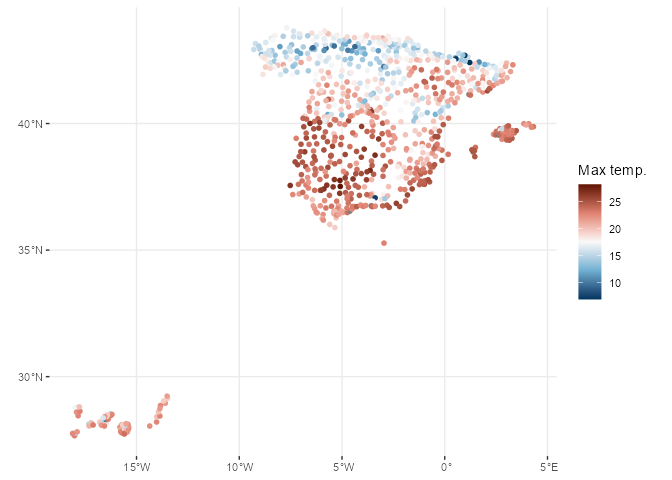
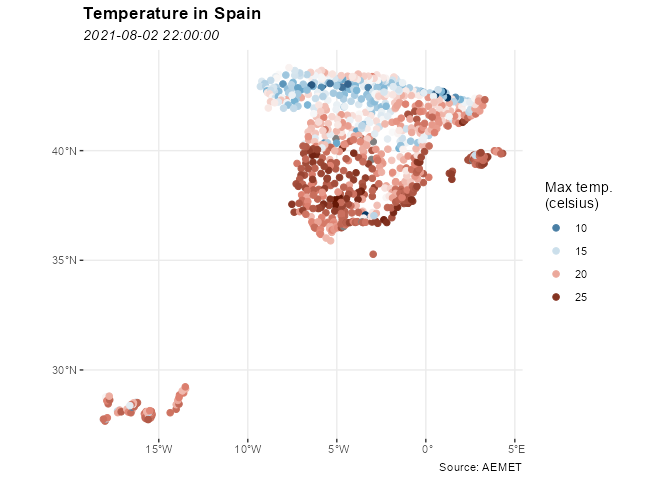
Update sÃpatial charts

diff --git a/README.md b/README.md
@@ -99,7 +99,7 @@ browseURL("https://opendata.aemet.es/centrodedescargas/obtencionAPIKey")
 aemet_api_key("<MY API KEY>")
 ```
 
-### Changes on v1.0.0\!
+### Changes on v1.0.0!
 
 Now the `apikey` parameter on the functions have been deprecated. You
 may need to set your API Key globally using `aemet_api_key()`. Note that
@@ -115,7 +115,6 @@ an hour, numbers are parsed as double, etc.).
 You may see the following message on load:
 
 ``` r
-
 library(climaemet)
 #> 
 #> Welcome to climaemet (1.0.0)
@@ -132,20 +131,20 @@ See how a tibble is displayed:
 # See a tibble in action
 
 aemet_last_obs("9434")
-#> # A tibble: 24 x 25
+#> # A tibble: 23 x 25
 #>    idema   lon fint                 prec   alt  vmax    vv    dv   lat  dmax
 #>    <chr> <dbl> <dttm>              <dbl> <dbl> <dbl> <dbl> <dbl> <dbl> <dbl>
-#>  1 9434  -1.00 2021-08-02 21:00:00     0   249   8.6   1.2   199  41.7   208
-#>  2 9434  -1.00 2021-08-02 22:00:00     0   249   5     1.7   351  41.7   323
-#>  3 9434  -1.00 2021-08-02 23:00:00     0   249   7.2   5     321  41.7   340
-#>  4 9434  -1.00 2021-08-03 00:00:00     0   249   6.6   4.5   302  41.7   305
-#>  5 9434  -1.00 2021-08-03 01:00:00     0   249   8.6   5.6   294  41.7   298
-#>  6 9434  -1.00 2021-08-03 02:00:00     0   249   8.6   5.2   310  41.7   298
-#>  7 9434  -1.00 2021-08-03 03:00:00     0   249   6.9   5.3   296  41.7   298
-#>  8 9434  -1.00 2021-08-03 04:00:00     0   249   6.4   4     291  41.7   293
-#>  9 9434  -1.00 2021-08-03 05:00:00     0   249   5.2   3.5   282  41.7   285
-#> 10 9434  -1.00 2021-08-03 06:00:00     0   249   5.4   3.2   285  41.7   283
-#> # ... with 14 more rows, and 15 more variables: ubi <chr>, pres <dbl>,
+#>  1 9434  -1.00 2021-08-02 22:00:00     0   249   5     1.7   351  41.7   323
+#>  2 9434  -1.00 2021-08-02 23:00:00     0   249   7.2   5     321  41.7   340
+#>  3 9434  -1.00 2021-08-03 00:00:00     0   249   6.6   4.5   302  41.7   305
+#>  4 9434  -1.00 2021-08-03 01:00:00     0   249   8.6   5.6   294  41.7   298
+#>  5 9434  -1.00 2021-08-03 02:00:00     0   249   8.6   5.2   310  41.7   298
+#>  6 9434  -1.00 2021-08-03 03:00:00     0   249   6.9   5.3   296  41.7   298
+#>  7 9434  -1.00 2021-08-03 04:00:00     0   249   6.4   4     291  41.7   293
+#>  8 9434  -1.00 2021-08-03 05:00:00     0   249   5.2   3.5   282  41.7   285
+#>  9 9434  -1.00 2021-08-03 06:00:00     0   249   5.4   3.2   285  41.7   283
+#> 10 9434  -1.00 2021-08-03 07:00:00     0   249   5.2   3.3   311  41.7   310
+#> # ... with 13 more rows, and 15 more variables: ubi <chr>, pres <dbl>,
 #> #   hr <dbl>, stdvv <dbl>, ts <dbl>, pres_nmar <dbl>, tamin <dbl>, ta <dbl>,
 #> #   tamax <dbl>, tpr <dbl>, stddv <dbl>, inso <dbl>, tss5cm <dbl>,
 #> #   pacutp <dbl>, tss20cm <dbl>
@@ -157,7 +156,6 @@ The package provides several functions to access the data of the API.
 Here you can find some examples:
 
 ``` r
-
 ## Get AEMET stations
 stations <- aemet_stations() # Need to have the API Key registered
 
@@ -165,7 +163,7 @@ knitr::kable(head(stations))
 ```
 
 | indicativo | indsinop | nombre               | provincia | altitud | longitud |  latitud |
-| :--------- | :------- | :------------------- | :-------- | ------: | -------: | -------: |
+|:-----------|:---------|:---------------------|:----------|--------:|---------:|---------:|
 | 0252D      | 08186    | ARENYS DE MAR        | BARCELONA |      74 | 2.540000 | 41.58750 |
 | 0076       | 08181    | BARCELONA AEROPUERTO | BARCELONA |       4 | 2.070000 | 41.29278 |
 | 0200E      |          | BARCELONA, FABRA     | BARCELONA |     408 | 2.124167 | 41.41833 |
@@ -174,7 +172,6 @@ knitr::kable(head(stations))
 | 0229I      | 08192    | SABADELL AEROPUERTO  | BARCELONA |     146 | 2.103056 | 41.52361 |
 
 ``` r
-
 station <- "9434" # Zaragoza Aeropuerto
 
 ## Get last observation values for a station
@@ -183,17 +180,16 @@ data_observation <- aemet_last_obs(station)
 knitr::kable(head(data_observation))
 ```
 
-| idema |        lon | fint                | prec | alt | vmax |  vv |  dv |      lat | dmax | ubi                 |  pres | hr | stdvv |   ts | pres\_nmar | tamin |   ta | tamax |  tpr | stddv | inso | tss5cm | pacutp | tss20cm |
-| :---- | ---------: | :------------------ | ---: | --: | ---: | --: | --: | -------: | ---: | :------------------ | ----: | -: | ----: | ---: | ---------: | ----: | ---: | ----: | ---: | ----: | ---: | -----: | -----: | ------: |
-| 9434  | \-1.004167 | 2021-08-02 21:00:00 |    0 | 249 |  8.6 | 1.2 | 199 | 41.66056 |  208 | ZARAGOZA AEROPUERTO | 986.2 | 48 |   0.4 | 23.2 |     1014.9 |  24.4 | 24.4 |  26.3 | 12.6 |    34 |    0 |   31.7 |      0 |    31.7 |
-| 9434  | \-1.004167 | 2021-08-02 22:00:00 |    0 | 249 |  5.0 | 1.7 | 351 | 41.66056 |  323 | ZARAGOZA AEROPUERTO | 986.9 | 52 |   1.0 | 22.2 |     1015.7 |  23.4 | 23.6 |  24.4 | 13.2 |    45 |    0 |   30.8 |      0 |    31.6 |
-| 9434  | \-1.004167 | 2021-08-02 23:00:00 |    0 | 249 |  7.2 | 5.0 | 321 | 41.66056 |  340 | ZARAGOZA AEROPUERTO | 987.1 | 59 |   0.8 | 22.0 |     1016.0 |  21.9 | 21.9 |  23.6 | 13.6 |     9 |    0 |   30.0 |      0 |    31.4 |
-| 9434  | \-1.004167 | 2021-08-03 00:00:00 |    0 | 249 |  6.6 | 4.5 | 302 | 41.66056 |  305 | ZARAGOZA AEROPUERTO | 987.3 | 62 |   0.7 | 21.1 |     1016.4 |  20.7 | 20.8 |  21.9 | 13.3 |    13 |    0 |   29.3 |      0 |    31.2 |
-| 9434  | \-1.004167 | 2021-08-03 01:00:00 |    0 | 249 |  8.6 | 5.6 | 294 | 41.66056 |  298 | ZARAGOZA AEROPUERTO | 987.1 | 63 |   0.7 | 20.4 |     1016.3 |  20.0 | 20.0 |  20.9 | 12.7 |     6 |    0 |   28.6 |      0 |    30.9 |
-| 9434  | \-1.004167 | 2021-08-03 02:00:00 |    0 | 249 |  8.6 | 5.2 | 310 | 41.66056 |  298 | ZARAGOZA AEROPUERTO | 987.1 | 67 |   0.8 | 19.5 |     1016.3 |  19.1 | 19.1 |  20.1 | 12.8 |     8 |    0 |   28.1 |      0 |    30.7 |
+| idema |       lon | fint                | prec | alt | vmax |  vv |  dv |      lat | dmax | ubi                 |  pres |  hr | stdvv |   ts | pres\_nmar | tamin |   ta | tamax |  tpr | stddv | inso | tss5cm | pacutp | tss20cm |
+|:------|----------:|:--------------------|-----:|----:|-----:|----:|----:|---------:|-----:|:--------------------|------:|----:|------:|-----:|-----------:|------:|-----:|------:|-----:|------:|-----:|-------:|-------:|--------:|
+| 9434  | -1.004167 | 2021-08-02 22:00:00 |    0 | 249 |  5.0 | 1.7 | 351 | 41.66056 |  323 | ZARAGOZA AEROPUERTO | 986.9 |  52 |   1.0 | 22.2 |     1015.7 |  23.4 | 23.6 |  24.4 | 13.2 |    45 |    0 |   30.8 |      0 |    31.6 |
+| 9434  | -1.004167 | 2021-08-02 23:00:00 |    0 | 249 |  7.2 | 5.0 | 321 | 41.66056 |  340 | ZARAGOZA AEROPUERTO | 987.1 |  59 |   0.8 | 22.0 |     1016.0 |  21.9 | 21.9 |  23.6 | 13.6 |     9 |    0 |   30.0 |      0 |    31.4 |
+| 9434  | -1.004167 | 2021-08-03 00:00:00 |    0 | 249 |  6.6 | 4.5 | 302 | 41.66056 |  305 | ZARAGOZA AEROPUERTO | 987.3 |  62 |   0.7 | 21.1 |     1016.4 |  20.7 | 20.8 |  21.9 | 13.3 |    13 |    0 |   29.3 |      0 |    31.2 |
+| 9434  | -1.004167 | 2021-08-03 01:00:00 |    0 | 249 |  8.6 | 5.6 | 294 | 41.66056 |  298 | ZARAGOZA AEROPUERTO | 987.1 |  63 |   0.7 | 20.4 |     1016.3 |  20.0 | 20.0 |  20.9 | 12.7 |     6 |    0 |   28.6 |      0 |    30.9 |
+| 9434  | -1.004167 | 2021-08-03 02:00:00 |    0 | 249 |  8.6 | 5.2 | 310 | 41.66056 |  298 | ZARAGOZA AEROPUERTO | 987.1 |  67 |   0.8 | 19.5 |     1016.3 |  19.1 | 19.1 |  20.1 | 12.8 |     8 |    0 |   28.1 |      0 |    30.7 |
+| 9434  | -1.004167 | 2021-08-03 03:00:00 |    0 | 249 |  6.9 | 5.3 | 296 | 41.66056 |  298 | ZARAGOZA AEROPUERTO | 987.3 |  67 |   0.5 | 19.2 |     1016.6 |  18.8 | 18.8 |  19.2 | 12.5 |     5 |    0 |   27.5 |      0 |    30.4 |
 
 ``` r
-
 ## Get daily/annual climatology values for a station
 data_daily <-
   aemet_daily_clim(station, start = "2020-01-01", end = "2020-12-31")
@@ -201,34 +197,32 @@ data_daily <-
 knitr::kable(head(data_daily))
 ```
 
-| fecha      | indicativo | nombre               | provincia | altitud | tmed | prec |  tmin | horatmin | tmax | horatmax | dir | velmedia | racha | horaracha | sol | presMax | horaPresMax | presMin | horaPresMin |
-| :--------- | :--------- | :------------------- | :-------- | ------: | ---: | :--- | ----: | :------- | ---: | :------- | :-- | -------: | ----: | :-------- | --: | ------: | :---------- | ------: | :---------- |
-| 2020-01-01 | 9434       | ZARAGOZA, AEROPUERTO | ZARAGOZA  |     249 |  1.0 | 0,0  |   0.3 | 06:10    |  1.8 | 14:50    | 28  |      1.7 |   5.6 | 04:40     | 0.0 |  1004.6 | 10          |  1001.9 | 15          |
-| 2020-01-02 | 9434       | ZARAGOZA, AEROPUERTO | ZARAGOZA  |     249 |  0.6 | 0,0  | \-0.3 | 08:10    |  1.6 | 18:40    | 29  |      1.1 |   3.6 | 00:40     | 0.0 |  1003.4 | 10          |  1000.7 | 16          |
-| 2020-01-03 | 9434       | ZARAGOZA, AEROPUERTO | ZARAGOZA  |     249 |  4.2 | 0,0  | \-0.1 | 07:10    |  8.5 | 19:10    | 30  |      4.4 |   8.3 | 21:40     | 2.4 |  1003.6 | 10          |  1000.7 | Varias      |
-| 2020-01-04 | 9434       | ZARAGOZA, AEROPUERTO | ZARAGOZA  |     249 |  8.6 | 0,0  |   3.6 | 06:40    | 13.6 | 14:50    | 33  |      5.0 |  12.5 | 12:30     | 8.2 |  1003.9 | 10          |  1001.2 | 15          |
-| 2020-01-05 | 9434       | ZARAGOZA, AEROPUERTO | ZARAGOZA  |     249 |  8.2 | 0,0  |   3.0 | 23:00    | 13.3 | 15:20    | 30  |      3.6 |  10.3 | 05:30     | 8.9 |  1001.9 | 00          |   996.9 | Varias      |
-| 2020-01-06 | 9434       | ZARAGOZA, AEROPUERTO | ZARAGOZA  |     249 |  2.3 | 0,0  |   1.4 | 23:59    |  3.2 | 00:00    | 29  |      3.1 |   7.2 | 20:20     | 0.0 |  1001.7 | 22          |   998.6 | 04          |
+| fecha      | indicativo | nombre               | provincia | altitud | tmed | prec | tmin | horatmin | tmax | horatmax | dir | velmedia | racha | horaracha | sol | presMax | horaPresMax | presMin | horaPresMin |
+|:-----------|:-----------|:---------------------|:----------|--------:|-----:|:-----|-----:|:---------|-----:|:---------|:----|---------:|------:|:----------|----:|--------:|:------------|--------:|:------------|
+| 2020-01-01 | 9434       | ZARAGOZA, AEROPUERTO | ZARAGOZA  |     249 |  1.0 | 0,0  |  0.3 | 06:10    |  1.8 | 14:50    | 28  |      1.7 |   5.6 | 04:40     | 0.0 |  1004.6 | 10          |  1001.9 | 15          |
+| 2020-01-02 | 9434       | ZARAGOZA, AEROPUERTO | ZARAGOZA  |     249 |  0.6 | 0,0  | -0.3 | 08:10    |  1.6 | 18:40    | 29  |      1.1 |   3.6 | 00:40     | 0.0 |  1003.4 | 10          |  1000.7 | 16          |
+| 2020-01-03 | 9434       | ZARAGOZA, AEROPUERTO | ZARAGOZA  |     249 |  4.2 | 0,0  | -0.1 | 07:10    |  8.5 | 19:10    | 30  |      4.4 |   8.3 | 21:40     | 2.4 |  1003.6 | 10          |  1000.7 | Varias      |
+| 2020-01-04 | 9434       | ZARAGOZA, AEROPUERTO | ZARAGOZA  |     249 |  8.6 | 0,0  |  3.6 | 06:40    | 13.6 | 14:50    | 33  |      5.0 |  12.5 | 12:30     | 8.2 |  1003.9 | 10          |  1001.2 | 15          |
+| 2020-01-05 | 9434       | ZARAGOZA, AEROPUERTO | ZARAGOZA  |     249 |  8.2 | 0,0  |  3.0 | 23:00    | 13.3 | 15:20    | 30  |      3.6 |  10.3 | 05:30     | 8.9 |  1001.9 | 00          |   996.9 | Varias      |
+| 2020-01-06 | 9434       | ZARAGOZA, AEROPUERTO | ZARAGOZA  |     249 |  2.3 | 0,0  |  1.4 | 23:59    |  3.2 | 00:00    | 29  |      3.1 |   7.2 | 20:20     | 0.0 |  1001.7 | 22          |   998.6 | 04          |
 
 ``` r
-
 
 ## Get monthly/annual climatology values for a station
 data_monthly <- aemet_monthly_clim(station, year = 2000)
 knitr::kable(head(data_monthly))
 ```
 
-| fecha  | indicativo | p\_max   | n\_cub | hr | n\_gra | n\_fog | inso | q\_max     | nw\_55 | q\_mar | q\_med | tm\_min | ta\_max  | ts\_min | nt\_30 | nv\_0050 | n\_des | w\_racha    | np\_100 | n\_nub | p\_sol | nw\_91 | ts\_20 | np\_001 | ta\_min   |   e | np\_300 | nv\_1000 | evap | p\_mes | n\_llu | n\_tor | ts\_10 | w\_med | nt\_00 | ti\_max | n\_nie | tm\_mes | tm\_max | nv\_0100 | ts\_50 | q\_min    | np\_010 |
-| :----- | :--------- | :------- | -----: | -: | -----: | -----: | ---: | :--------- | -----: | -----: | -----: | ------: | :------- | ------: | -----: | -------: | -----: | :---------- | ------: | -----: | -----: | -----: | -----: | ------: | :-------- | --: | ------: | -------: | ---: | -----: | -----: | -----: | -----: | -----: | -----: | ------: | -----: | ------: | ------: | -------: | -----: | :-------- | ------: |
-| 2000-1 | 9434       | 8.0(15)  |      8 | 77 |      0 |      6 |  5.4 | 1003.5(11) |      5 | 1026.0 |  994.1 |   \-0.1 | 16.3(31) |     6.2 |      0 |        0 |     12 | 32/22.2(22) |       0 |     11 |     56 |      0 |    4.9 |       3 | \-5.8(12) |  65 |       0 |        5 |  861 |   14.9 |      3 |      0 |    5.0 |     15 |     16 |     1.0 |      0 |     4.3 |     8.7 |        0 |    5.6 | 979.7(14) |       2 |
-| 2000-2 | 9434       | 0.0(–)   |      0 | 60 |      0 |      0 |  7.7 | 1004.9(04) |      9 | 1027.1 |  996.0 |     4.8 | 20.8(27) |    10.7 |      0 |        0 |      8 | 33/21.4(17) |       0 |     21 |     72 |      0 |   11.8 |       0 | \-1.5(06) |  79 |       0 |        0 | 1638 |    0.0 |      0 |      0 |   12.7 |     16 |      4 |    13.4 |      0 |    10.8 |    16.9 |        0 |   10.6 | 988.6(17) |       0 |
-| 2000-3 | 9434       | 5.4(22)  |      4 | 58 |      0 |      0 |  7.8 | 1001.0(09) |      8 | 1020.3 |  989.5 |     6.0 | 24.0(11) |    11.0 |      0 |        0 |      8 | 32/20.0(15) |       0 |     19 |     65 |      0 |   14.9 |       7 | \-0.8(03) |  83 |       0 |        0 | 2062 |   11.1 |      7 |      0 |   15.7 |     18 |      1 |    12.1 |      0 |    12.0 |    17.9 |        0 |   13.6 | 976.5(28) |       4 |
-| 2000-4 | 9434       | 22.2(26) |      8 | 61 |      0 |      0 |  6.2 | 991.5(07)  |      7 | 1008.0 |  977.8 |     8.4 | 27.2(25) |    14.9 |      0 |        0 |      1 | 10/20.0(02) |       1 |     21 |     46 |      0 |   16.7 |      10 | 1.7(06)   |  99 |       0 |        0 | 1730 |   49.1 |     14 |      1 |   17.5 |     17 |      0 |    11.7 |      0 |    13.7 |    18.9 |        0 |   15.2 | 959.5(02) |       6 |
-| 2000-5 | 9434       | 23.4(05) |      6 | 61 |      2 |      2 |  8.7 | 991.4(30)  |     NA | 1014.4 |  984.7 |    13.2 | 33.0(30) |    18.8 |      5 |        0 |      1 | NA          |       3 |     24 |     59 |     NA |   23.5 |      13 | 9.2(01)   | 143 |       0 |        1 | 2116 |   67.5 |     11 |      8 |   24.8 |     13 |      0 |    21.5 |      0 |    19.5 |    25.7 |        0 |   20.8 | 977.5(06) |       8 |
-| 2000-6 | 9434       | 12.2(09) |      2 | 57 |      0 |      0 | 11.3 | 995.0(14)  |     NA | 1017.1 |  987.6 |    16.0 | 37.5(27) |    20.3 |     19 |        0 |     18 | NA          |       1 |     10 |     75 |     NA |   27.7 |       6 | 11.0(08)  | 164 |       0 |        0 | 2955 |   34.9 |      8 |      4 |   29.2 |     21 |      0 |    16.5 |      0 |    23.0 |    29.8 |        0 |   26.1 | 977.9(09) |       5 |
+| fecha  | indicativo | p\_max   | n\_cub |  hr | n\_gra | n\_fog | inso | q\_max     | nw\_55 | q\_mar | q\_med | tm\_min | ta\_max  | ts\_min | nt\_30 | nv\_0050 | n\_des | w\_racha    | np\_100 | n\_nub | p\_sol | nw\_91 | ts\_20 | np\_001 | ta\_min  |   e | np\_300 | nv\_1000 | evap | p\_mes | n\_llu | n\_tor | ts\_10 | w\_med | nt\_00 | ti\_max | n\_nie | tm\_mes | tm\_max | nv\_0100 | ts\_50 | q\_min    | np\_010 |
+|:-------|:-----------|:---------|-------:|----:|-------:|-------:|-----:|:-----------|-------:|-------:|-------:|--------:|:---------|--------:|-------:|---------:|-------:|:------------|--------:|-------:|-------:|-------:|-------:|--------:|:---------|----:|--------:|---------:|-----:|-------:|-------:|-------:|-------:|-------:|-------:|--------:|-------:|--------:|--------:|---------:|-------:|:----------|--------:|
+| 2000-1 | 9434       | 8.0(15)  |      8 |  77 |      0 |      6 |  5.4 | 1003.5(11) |      5 | 1026.0 |  994.1 |    -0.1 | 16.3(31) |     6.2 |      0 |        0 |     12 | 32/22.2(22) |       0 |     11 |     56 |      0 |    4.9 |       3 | -5.8(12) |  65 |       0 |        5 |  861 |   14.9 |      3 |      0 |    5.0 |     15 |     16 |     1.0 |      0 |     4.3 |     8.7 |        0 |    5.6 | 979.7(14) |       2 |
+| 2000-2 | 9434       | 0.0(–)   |      0 |  60 |      0 |      0 |  7.7 | 1004.9(04) |      9 | 1027.1 |  996.0 |     4.8 | 20.8(27) |    10.7 |      0 |        0 |      8 | 33/21.4(17) |       0 |     21 |     72 |      0 |   11.8 |       0 | -1.5(06) |  79 |       0 |        0 | 1638 |    0.0 |      0 |      0 |   12.7 |     16 |      4 |    13.4 |      0 |    10.8 |    16.9 |        0 |   10.6 | 988.6(17) |       0 |
+| 2000-3 | 9434       | 5.4(22)  |      4 |  58 |      0 |      0 |  7.8 | 1001.0(09) |      8 | 1020.3 |  989.5 |     6.0 | 24.0(11) |    11.0 |      0 |        0 |      8 | 32/20.0(15) |       0 |     19 |     65 |      0 |   14.9 |       7 | -0.8(03) |  83 |       0 |        0 | 2062 |   11.1 |      7 |      0 |   15.7 |     18 |      1 |    12.1 |      0 |    12.0 |    17.9 |        0 |   13.6 | 976.5(28) |       4 |
+| 2000-4 | 9434       | 22.2(26) |      8 |  61 |      0 |      0 |  6.2 | 991.5(07)  |      7 | 1008.0 |  977.8 |     8.4 | 27.2(25) |    14.9 |      0 |        0 |      1 | 10/20.0(02) |       1 |     21 |     46 |      0 |   16.7 |      10 | 1.7(06)  |  99 |       0 |        0 | 1730 |   49.1 |     14 |      1 |   17.5 |     17 |      0 |    11.7 |      0 |    13.7 |    18.9 |        0 |   15.2 | 959.5(02) |       6 |
+| 2000-5 | 9434       | 23.4(05) |      6 |  61 |      2 |      2 |  8.7 | 991.4(30)  |     NA | 1014.4 |  984.7 |    13.2 | 33.0(30) |    18.8 |      5 |        0 |      1 | NA          |       3 |     24 |     59 |     NA |   23.5 |      13 | 9.2(01)  | 143 |       0 |        1 | 2116 |   67.5 |     11 |      8 |   24.8 |     13 |      0 |    21.5 |      0 |    19.5 |    25.7 |        0 |   20.8 | 977.5(06) |       8 |
+| 2000-6 | 9434       | 12.2(09) |      2 |  57 |      0 |      0 | 11.3 | 995.0(14)  |     NA | 1017.1 |  987.6 |    16.0 | 37.5(27) |    20.3 |     19 |        0 |     18 | NA          |       1 |     10 |     75 |     NA |   27.7 |       6 | 11.0(08) | 164 |       0 |        0 | 2955 |   34.9 |      8 |      4 |   29.2 |     21 |      0 |    16.5 |      0 |    23.0 |    29.8 |        0 |   26.1 | 977.9(09) |       5 |
 
 ``` r
-
 
 ## Get recorded extreme values of temperature for a station
 data_extremes <- aemet_extremes_clim(station, parameter = "T")
@@ -236,11 +230,11 @@ knitr::kable(head(data_extremes))
 ```
 
 | indicativo | nombre               | ubicacion | codigo | temMin | diaMin | anioMin | mesMin | temMax | diaMax | anioMax | mesMax | temMedBaja | anioMedBaja | mesMedBaja | temMedAlta | anioMedAlta | mesMedAlta | temMedMin | anioMedMin | mesMedMin | temMedMax | anioMedMax | mesMedMax |
-| :--------- | :------------------- | :-------- | :----- | -----: | -----: | ------: | -----: | -----: | -----: | ------: | -----: | ---------: | ----------: | ---------: | ---------: | ----------: | ---------: | --------: | ---------: | --------: | --------: | ---------: | --------: |
-| 9434       | ZARAGOZA, AEROPUERTO | ZARAGOZA  | 023000 |  \-104 |      4 |    1971 |      2 |    206 |      8 |    2016 |      7 |         29 |        1953 |          2 |         97 |        2016 |          7 |      \-12 |       1957 |         2 |       135 |       2016 |         7 |
-| 9434       | ZARAGOZA, AEROPUERTO | ZARAGOZA  | 023000 |  \-114 |      5 |    1963 |      2 |    255 |     27 |    2019 |      7 |         15 |        1956 |          2 |        121 |        1990 |          7 |      \-30 |       1956 |         2 |       180 |       1990 |         7 |
-| 9434       | ZARAGOZA, AEROPUERTO | ZARAGOZA  | 023000 |   \-63 |      9 |    1964 |      2 |    283 |     19 |    1957 |      7 |         71 |        1971 |          2 |        146 |        2001 |          7 |        19 |       1973 |         2 |       207 |       1997 |         7 |
-| 9434       | ZARAGOZA, AEROPUERTO | ZARAGOZA  | 023000 |   \-24 |      3 |    1967 |      2 |    324 |      9 |    2011 |      7 |        104 |        1986 |          2 |        174 |        2014 |          7 |        54 |       1970 |         2 |       237 |       2014 |         7 |
+|:-----------|:---------------------|:----------|:-------|-------:|-------:|--------:|-------:|-------:|-------:|--------:|-------:|-----------:|------------:|-----------:|-----------:|------------:|-----------:|----------:|-----------:|----------:|----------:|-----------:|----------:|
+| 9434       | ZARAGOZA, AEROPUERTO | ZARAGOZA  | 023000 |   -104 |      4 |    1971 |      2 |    206 |      8 |    2016 |      7 |         29 |        1953 |          2 |         97 |        2016 |          7 |       -12 |       1957 |         2 |       135 |       2016 |         7 |
+| 9434       | ZARAGOZA, AEROPUERTO | ZARAGOZA  | 023000 |   -114 |      5 |    1963 |      2 |    255 |     27 |    2019 |      7 |         15 |        1956 |          2 |        121 |        1990 |          7 |       -30 |       1956 |         2 |       180 |       1990 |         7 |
+| 9434       | ZARAGOZA, AEROPUERTO | ZARAGOZA  | 023000 |    -63 |      9 |    1964 |      2 |    283 |     19 |    1957 |      7 |         71 |        1971 |          2 |        146 |        2001 |          7 |        19 |       1973 |         2 |       207 |       1997 |         7 |
+| 9434       | ZARAGOZA, AEROPUERTO | ZARAGOZA  | 023000 |    -24 |      3 |    1967 |      2 |    324 |      9 |    2011 |      7 |        104 |        1986 |          2 |        174 |        2014 |          7 |        54 |       1970 |         2 |       237 |       2014 |         7 |
 | 9434       | ZARAGOZA, AEROPUERTO | ZARAGOZA  | 023000 |      5 |      4 |    1967 |      2 |    365 |     29 |    2001 |      7 |        132 |        1984 |          2 |        208 |        2017 |          7 |        85 |       1984 |         2 |       278 |       2017 |         7 |
 | 9434       | ZARAGOZA, AEROPUERTO | ZARAGOZA  | 023000 |     52 |     11 |    1971 |      2 |    432 |     29 |    2019 |      7 |        182 |        1953 |          2 |        266 |        2003 |          7 |       126 |       1969 |         2 |       338 |       2003 |         7 |
 
@@ -248,7 +242,6 @@ We can also draw a “warming stripes” graph with the downloaded data from
 a weather station. These functions returns `ggplot2` plots:
 
 ``` r
-
 # Plot a climate stripes graph for a period of years for a station
 
 library(ggplot2)
@@ -274,7 +267,6 @@ direction over a period of time for the data downloaded from a weather
 station.:
 
 ``` r
-
 # Plot a windrose showing the wind speed and direction for a station over a days period.
 windrose_days(
   "9434",
@@ -288,7 +280,7 @@ windrose_days(
 
 <img src="man/figures/README-windrose-1.png" width="100%" />
 
-## … and spatial\!
+## … and spatial!
 
 Another major change in `v1.0.0` is the ability of return information on
 spatial `sf` format, using `return_sf = TRUE`. The coordinate reference
@@ -297,26 +289,42 @@ Geodetic System (WGS)** and return coordinates in latitude/longitude
 (unprojected coordinates):
 
 ``` r
-
 # You would need to install `sf` if not installed yet
 # run install.packages("sf") for installation
 
 library(ggplot2)
 library(dplyr)
+
 all_stations <- aemet_last_obs(return_sf = TRUE)
 # Last hour
 all_last <-
   all_stations %>% filter(fint == all_stations[["fint"]][1])
 
+last_hour <- max(all_last$fint)
+
+
 ggplot(all_last) +
-  geom_sf(aes(col = ta, stroke = 0, geometry = geometry),
+  geom_sf(aes(col = ta),
     shape = 19,
     size = 2
   ) +
-  labs(col = "Max temp.") +
-  scale_colour_gradientn(colours = hcl.colors(5, "RdBu", rev = TRUE)) +
+  labs(
+    title = "Temperature in Spain",
+    subtitle = last_hour,
+    color = "Max temp.\n(celsius)",
+    caption = "Source: AEMET"
+  ) +
+  scale_colour_gradientn(
+    colours = hcl.colors(5, "RdBu", rev = TRUE),
+    guide = "legend"
+  ) +
+  guides(colour = guide_legend(n.breaks = 10)) +
   theme_bw() +
-  theme(panel.border = element_blank())
+  theme(
+    panel.border = element_blank(),
+    plot.title = element_text(face = "bold"),
+    plot.subtitle = element_text(face = "italic")
+  )
 ```
 
 <img src="man/figures/README-spatial-1.png" width="100%" />
